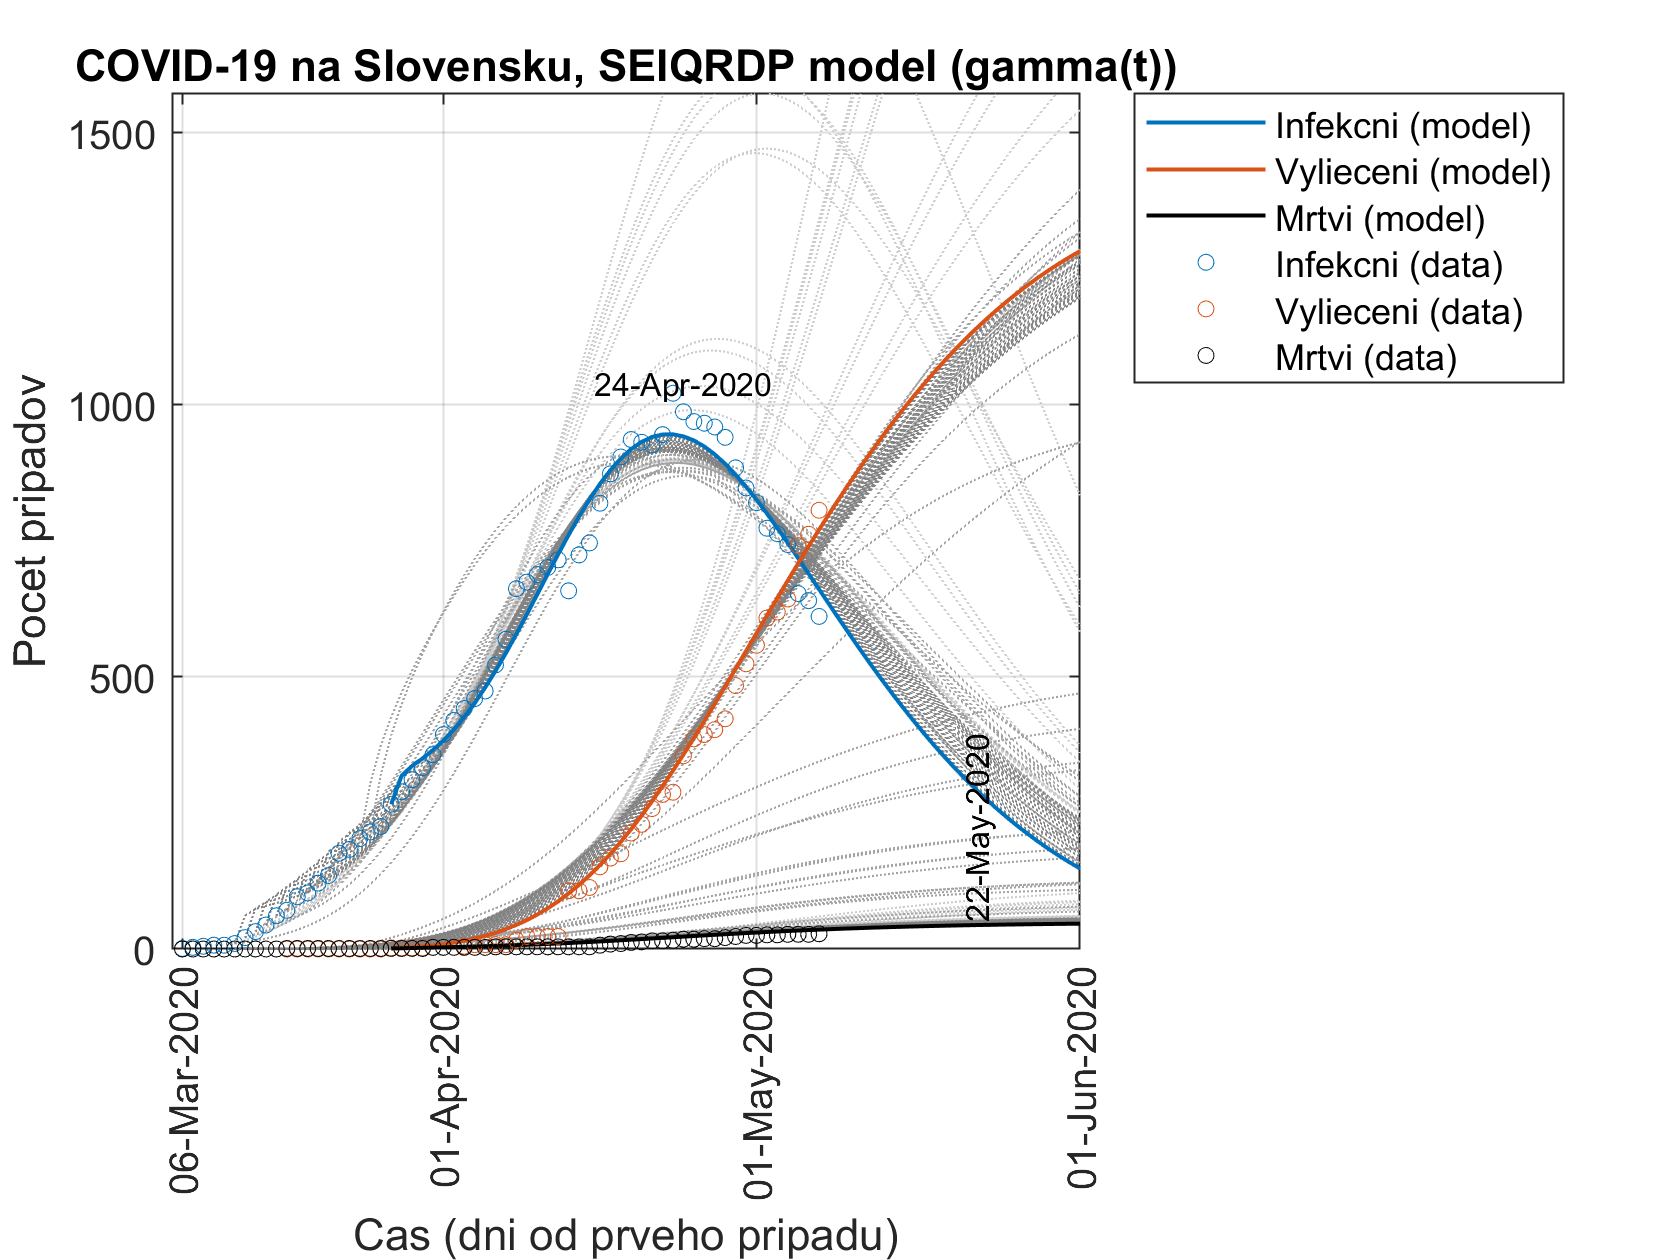
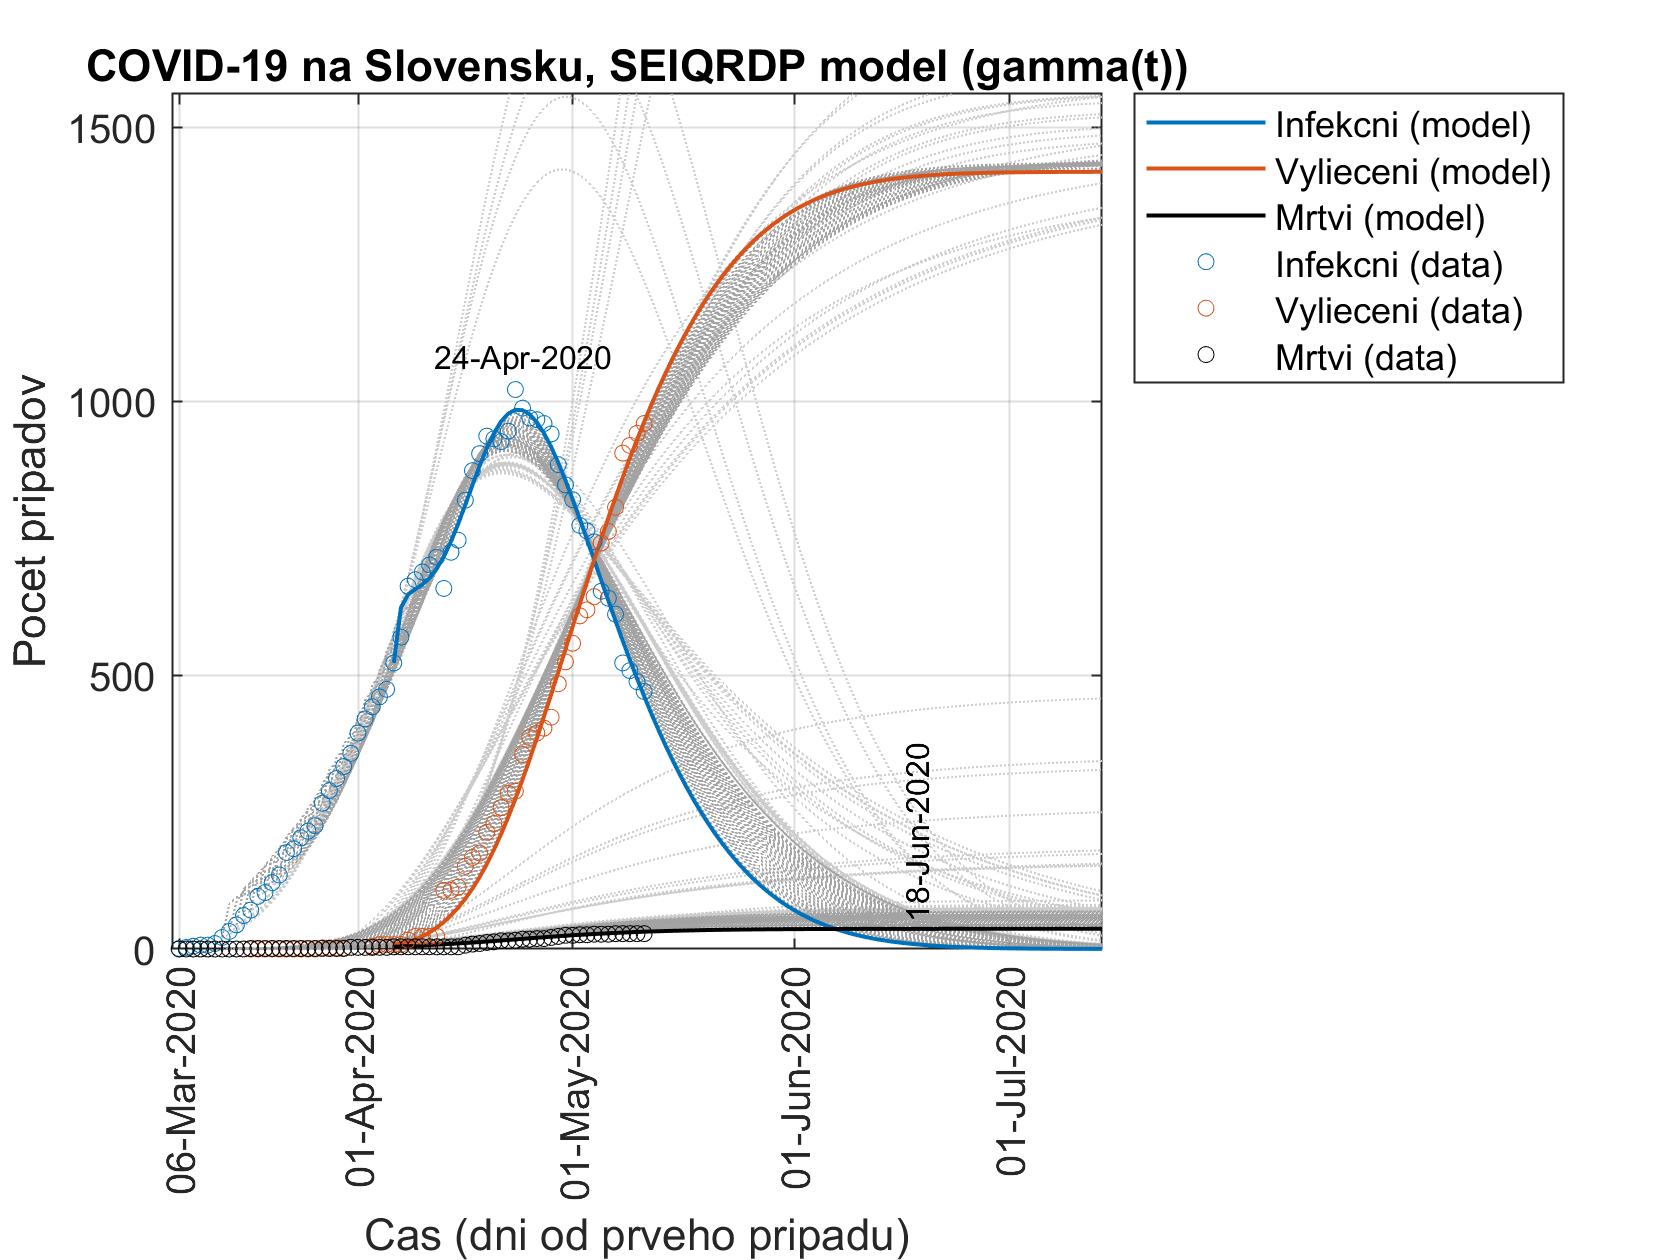
Daily upgrade

diff --git a/fitSEIRDQP.m b/fitSEIRDQP.m
@@ -37,11 +37,11 @@ beta   = 1.5;        % [Days]
 sigma  = 3;      % [Days] Latent period
 delta  = 4;       % [Days] Quaratine period
 gamma0 = 1/0.8;
-mu     = 0.002;
+mu     = 0.001;
 
 
 if mod == 1
-    gamma1=0.001; % was 
+    gamma1=1E-3; % was 
 else 
     gamma1=0.0;
 end
@@ -77,7 +77,7 @@ SEIQRDPinit = idnlgrey(FileName,Order,Parameters,InitialStates,Ts,'TimeUnit','da
 
 % alpha - protection rate
 SEIQRDPinit.Parameters(1).Minimum = 0.001;      
-SEIQRDPinit.Parameters(1).Maximum = 0.1;   
+SEIQRDPinit.Parameters(1).Maximum = 0.2;   
 SEIQRDPinit.Parameters(1).Fixed = false;
 
 % beta - infection rate
@@ -87,7 +87,7 @@ SEIQRDPinit.Parameters(2).Fixed = false;
     
 % sigma - latent period
 SEIQRDPinit.Parameters(3).Minimum = 1/7;   % [1/days] 
-SEIQRDPinit.Parameters(3).Maximum = 1/1;    % [1/days] 
+SEIQRDPinit.Parameters(3).Maximum = 1/0.1;    % [1/days] 
 SEIQRDPinit.Parameters(3).Fixed = false; 
 
 % delta - quarantining period 1/days
@@ -97,12 +97,13 @@ SEIQRDPinit.Parameters(4).Fixed = false;
 
 % gamma0 - recovery rate
 SEIQRDPinit.Parameters(5).Minimum = eps;   % [1/days] 
-SEIQRDPinit.Parameters(5).Maximum = 2;    % [1/days] 
+SEIQRDPinit.Parameters(5).Maximum = 5;    % [1/days] 
 SEIQRDPinit.Parameters(5).Fixed = false; 
 
 % gamma1 - recovery rate
 if mod ==1
-SEIQRDPinit.Parameters(6).Minimum = eps;   % [1/days] 
+SEIQRDPinit.Parameters(6).Minimum =0;   % [1/days] 
+%SEIQRDPinit.Parameters(6).Minimum = eps;   % [1/days] 
 %SEIQRDPinit.Parameters(6).Maximum = 1/1;    % [1/days] 
 SEIQRDPinit.Parameters(6).Fixed = false; 
 else
@@ -121,28 +122,28 @@ SEIQRDPinit.Parameters(7).Fixed = false;
 
 
 SEIQRDPinit.InitialStates(1).Fixed   = false; % S(0)
-
+ 
 SEIQRDPinit.InitialStates(2).Fixed   = false; % E(0) 
 
 SEIQRDPinit.InitialStates(3).Fixed   = false; % I(0) 
-
+ 
 SEIQRDPinit.InitialStates(4).Fixed   = true;  % Q(0)
-SEIQRDPinit.InitialStates(4).Minimum = I0; 
-SEIQRDPinit.InitialStates(4).Maximum = 1.2*I0; 
-
+% SEIQRDPinit.InitialStates(4).Minimum = I0; 
+% SEIQRDPinit.InitialStates(4).Maximum = 1.2*I0; 
+% 
 SEIQRDPinit.InitialStates(5).Fixed   = true;  
-SEIQRDPinit.InitialStates(5).Minimum = R0; 
-SEIQRDPinit.InitialStates(5).Maximum = 1.2*Q0; 
-
+% SEIQRDPinit.InitialStates(5).Minimum = R0; 
+% SEIQRDPinit.InitialStates(5).Maximum = 1.2*Q0; 
+% 
 SEIQRDPinit.InitialStates(6).Fixed   = true;  
-SEIQRDPinit.InitialStates(6).Minimum = D0; 
-SEIQRDPinit.InitialStates(6).Maximum = 1.2*D0; 
-
+% SEIQRDPinit.InitialStates(6).Minimum = D0; 
+% SEIQRDPinit.InitialStates(6).Maximum = 1.2*D0; 
+% 
 SEIQRDPinit.InitialStates(7).Fixed   = false;  
 
 %--- Simulation options
 
-SEIQRDPinit.SimulationOptions.FixedStep=1/24;
+%SEIQRDPinit.SimulationOptions.FixedStep=1/24;
 %SEIQRDPinit.SimulationOptions.Solver='ode45';
 
 %optEst.Regularization.Lambda=0; 
@@ -191,22 +192,12 @@ if strcmp(method,'lsqnonlin')
  %optEst.GradientOptions.MinDifference=1E-8;
 end
 
-%optEst.OutputWeight=diag([1000,10,100]);
-%optEst.OutputWeight=diag([500,25,50]);
-%50,10,5
+
+ %optEst.OutputWeight=diag([120,25,20]);
  optEst.OutputWeight=diag([120,25,20]);
-% optEst.OutputWeight=diag([100,25,10]);
-%optEst.Regularization.Lambda = 1.1;
+ %optEst.Regularization.Lambda = 1.00001;
+ optEst.Regularization.Nominal = 'model';
 
-
-% Does not converge 'fmincon', 
-% Does converge 
-% -'gna' most robustly w/ good results, without a lot of fine tuning, but
-% some results widely fly off to "unstable"-ish results. FPE seems to be
-% more reliable of determining the best.
-% - 'lsqnonlin' stalls out of the box, but with MinDifference set to 1E-4
-% itproduces actually more stable results than gna
-% -'lm' with low iteration number
 
 SEIQRDPm = nlgreyest(data,SEIQRDPinit,optEst);              % Run identification procedure
 InitialStates=[SEIQRDPm.InitialStates(1).Value;SEIQRDPm.InitialStates(2).Value;SEIQRDPm.InitialStates(3).Value;SEIQRDPm.InitialStates(4).Value;SEIQRDPm.InitialStates(5).Value;SEIQRDPm.InitialStates(6).Value;;SEIQRDPm.InitialStates(7).Value];
